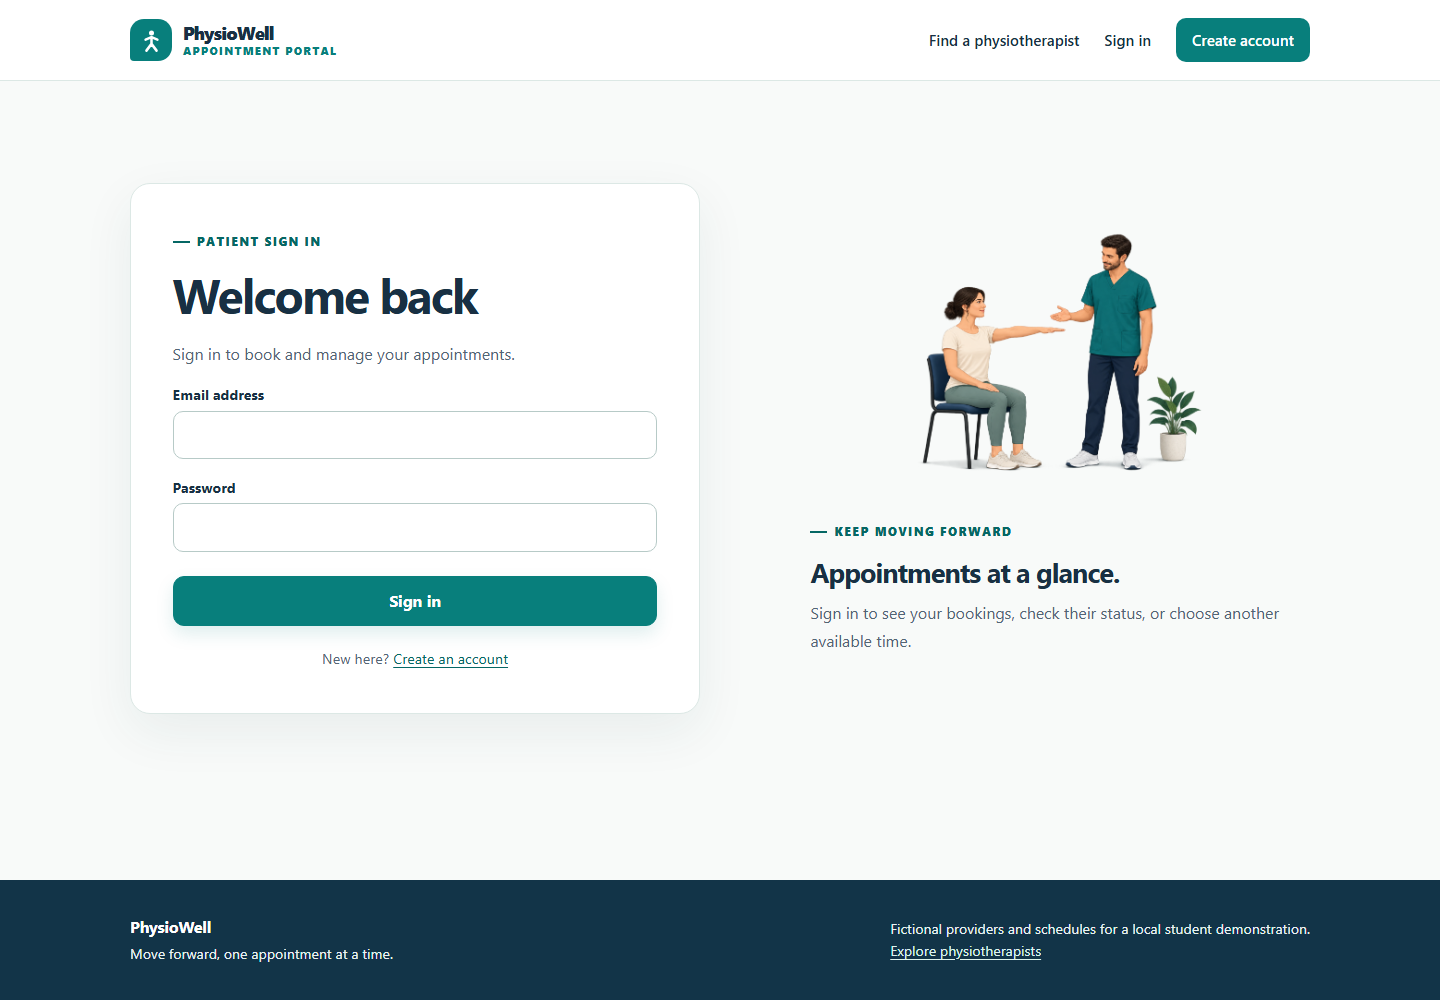
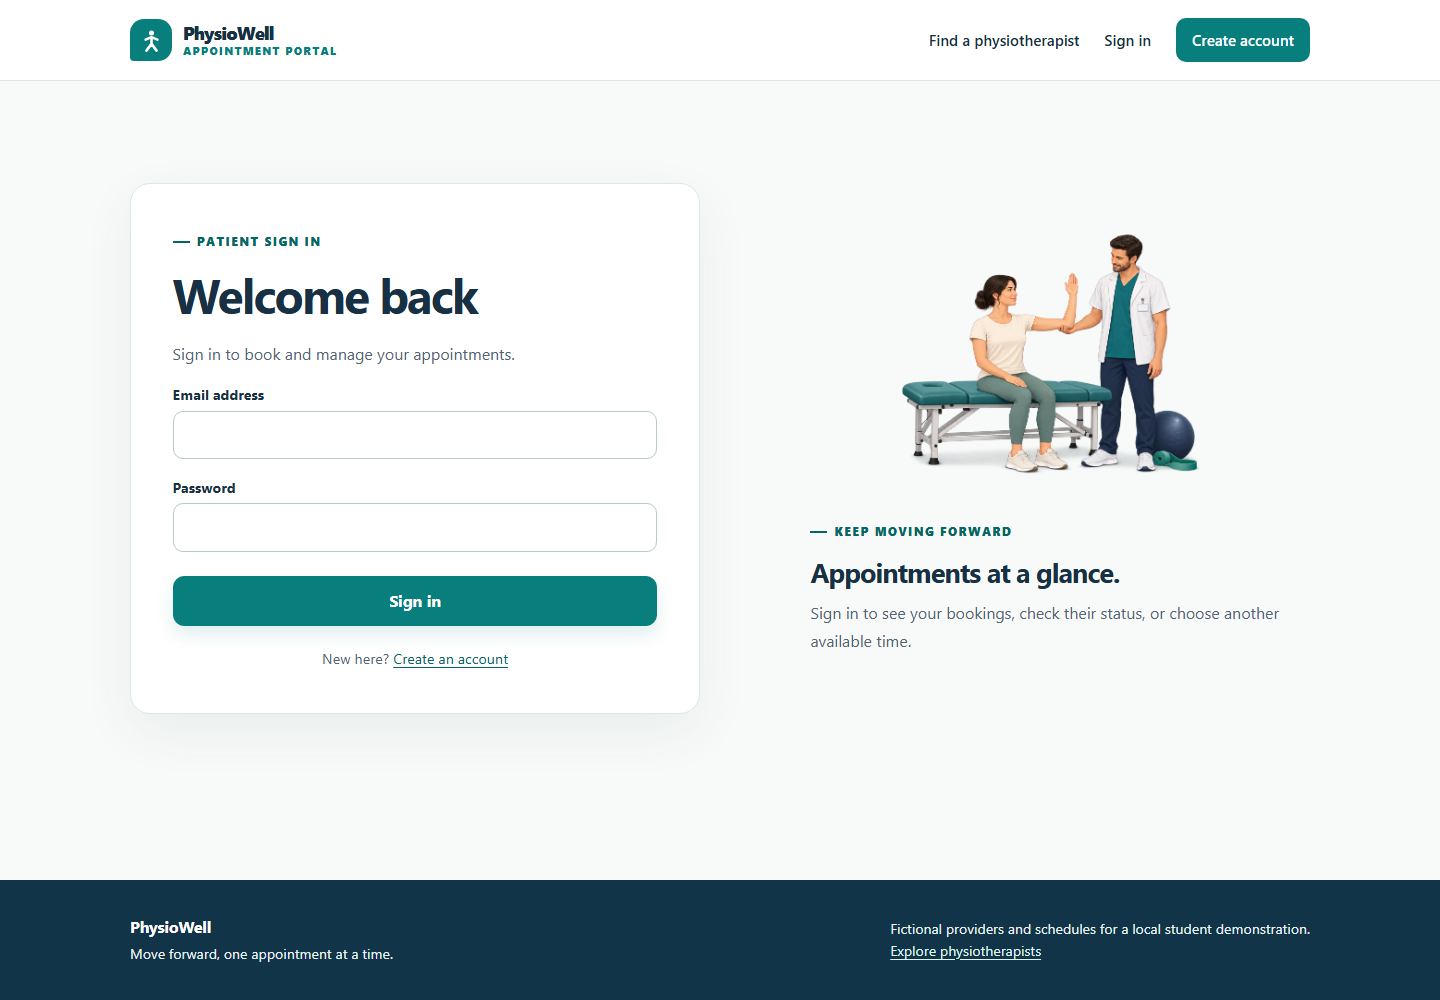
fix: show a recognizable physiotherapy assessment scene

Changed region(s): [[0.625, 0.217, 0.8438, 0.496]]

diff --git a/src/main/resources/templates/index.html b/src/main/resources/templates/index.html
@@ -21,7 +21,7 @@
             </div>
         </div>
         <div class="hero-visual">
-            <img th:src="@{/images/movement-session.png}" src="/images/movement-session.png" alt="A seated patient raises one arm while a standing physiotherapist demonstrates the movement">
+            <img th:src="@{/images/movement-session.png}" src="/images/movement-session.png" alt="A physiotherapist guides a patient's shoulder movement beside a treatment table">
         </div>
     </section>
     <section class="section" aria-labelledby="how-title">

diff --git a/docs/ui-refresh.md b/docs/ui-refresh.md
@@ -5,7 +5,7 @@ The visual update follows the approved patient portal scope. It changes presenta
 ## Design
 
 - **Theme:** deep navy for text and footer, teal for primary actions, soft mint for supporting surfaces, and a warm cream accent in the home hero.
-- **Physiotherapy context:** a local transparent PNG shows a seated patient and a standing physiotherapist with distinct, naturally positioned limbs. The same illustration supports the home and account pages; provider cards use small clinician icons, and the slot page uses a clock icon beside practical booking information.
+- **Physiotherapy context:** a local transparent PNG shows a patient seated on a treatment table and a physiotherapist in teal scrubs and a white coat guiding a shoulder assessment. An exercise ball and resistance band add rehabilitation context. The same illustration supports the home and account pages; provider cards use small clinician icons, and the slot page uses a clock icon beside practical booking information.
 - **Patient flow:** the home page explains three steps; provider cards show specialty and description; slots show duration and IST time zone before booking; account and appointment pages share the same navigation and action styles.
 - **Accessibility:** semantic headings and landmarks, a skip link, text alternatives, visible keyboard focus, responsive layouts, and reduced-motion support.
 - **Cost:** the illustration, icons, CSS, and system fonts are stored locally. No paid service, image license, remote font, or external runtime asset is required.
@@ -66,3 +66,11 @@ The home-page badge was removed so it cannot cover the clinician's feet. The mob
 Local checks on 4 October 2026 passed: 34 backend tests ([build log](evidence/UI_illustration_backend.txt)) and five Selenium journeys against the final preview ([browser log](evidence/UI_illustration_selenium.txt)), with zero failures, errors, or skips.
 
 [PR #12](https://github.com/kirti-vispute/physiotherapy-appointment-portal/pull/12) received a [COMMENT self-review](https://github.com/kirti-vispute/physiotherapy-appointment-portal/pull/12#pullrequestreview-5406606689) and merged at `ef9a997ba600015fc89c9859b35cc10de23ebccf`. Automatic [Pipeline #15](evidence/UI_illustration_pipeline15.json) finished SUCCESS with all 39 tests passing and deployed the corrected image to port 8087. The [live verification](evidence/UI_illustration_live.json) matched the running container to the build, checked all three page references, confirmed the live PNG SHA-256 equals the repository asset, and returned health `UP`.
+
+## Clearer physiotherapy setting
+
+Further user feedback requested a more recognizable patient and clinician. The built-in image-generation tool edited the local illustration to show a patient seated on a padded physiotherapy treatment table, a clinician wearing teal scrubs and a white coat with a blank ID badge, and a guided shoulder mobility assessment. An exercise ball and rolled resistance band supply rehabilitation context. Natural limbs, complete feet, transparency, and the existing palette were retained. This remains a conceptual illustration, with no treatment instructions or outcome claim.
+
+Final prompt summary: edit the existing illustration into a professional physiotherapy appointment with a treatment table, clinical clothing, gentle elbow support during shoulder assessment, natural hands and legs, full-body framing, transparent background, and no text or logos. The result is saved at `src/main/resources/static/images/movement-session.png` and used on home, sign-in, and registration. The home text alternative now describes the assessment. Earlier build and asset hashes document previous versions.
+
+Local packaging with `mvn -B -ntp -DskipTests package` succeeded. Desktop and 744-pixel sign-in screenshots show the clinical setting clearly, and the 390-pixel mobile home screenshot includes the full scene with no horizontal overflow. The existing full test gate runs in Jenkins after merge.
